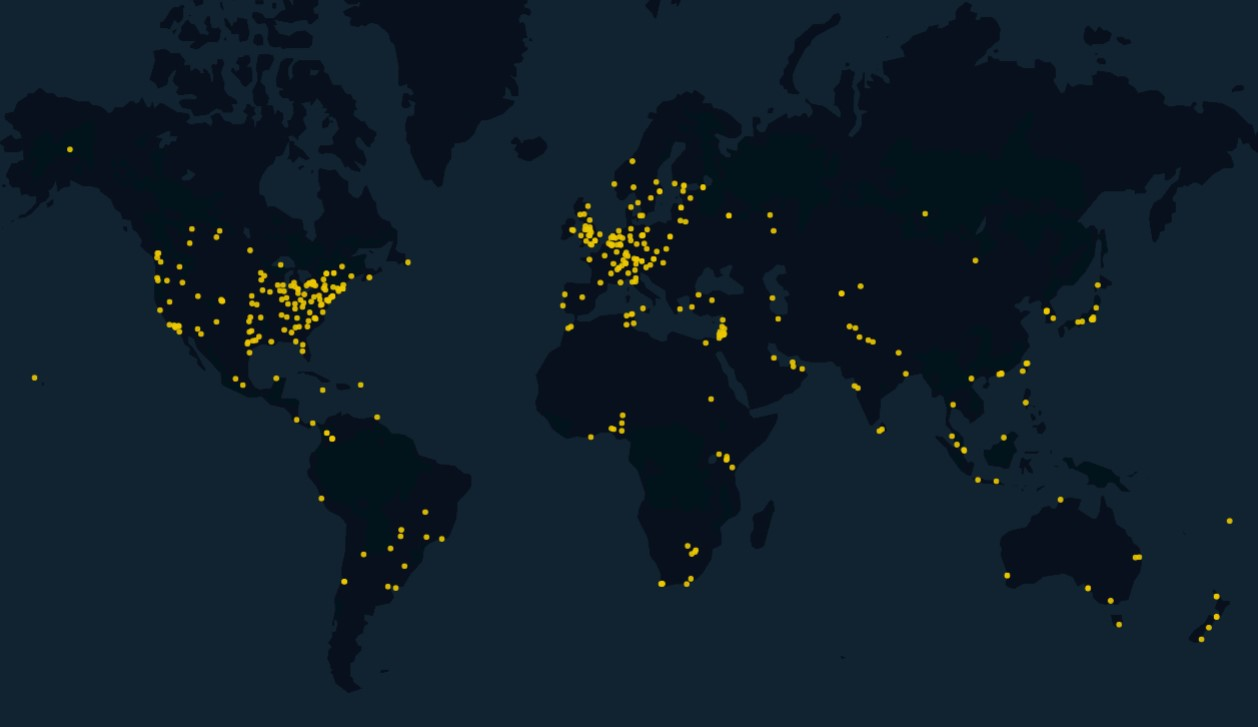
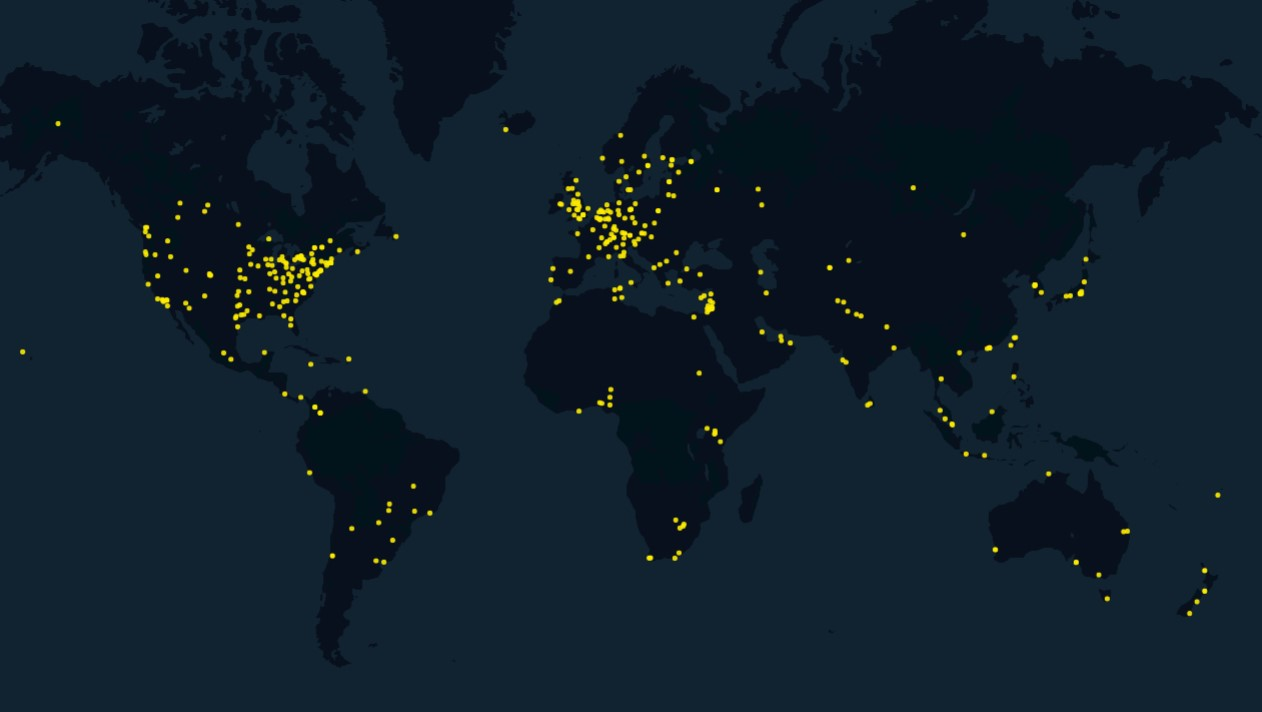
updates

diff --git a/pages/north_america/usa-west.md b/pages/north_america/usa-west.md
@@ -188,13 +188,13 @@ Professors:
 - **[John P. Wilson](https://spatial.usc.edu/?team=john-p-wilson)**: GIS, spatial analysis, environmental modeling, environment and human health, geodesign education;
 - **[Kenan Li](https://spatial.usc.edu/team-view/kenan-li/)**: spatial computation and modeling of community resilience/sustainability, data science and statistics in environmental health, geosimulation of human and environmental systems.
 
-### San Diego State Univeristy
+### San Diego State University
 
 San Diego, California, USA
 
 Unit: [Department of Geography](https://geography.sdsu.edu/)
 
-The graduate program of the geography department at SDSU offers MA, MS and PhD options. The MS degree program includes the focus of GIS, and the main research scope is applied GIS, cartography, data science, spatial analysis, and modeling. The PhD progam is a joint program between SDSU and UC Santa Barbara. It requires a strong background in geography-related fields for entrance.
+The SDSU is a member of the 23-campus California State University system. The graduate program of the geography department at SDSU offers MA, MS and PhD options. The MS degree program includes the focus of GIS, and the main research scope is applied GIS, cartography, data science, spatial analysis, and modeling. The PhD progam is a joint program between SDSU and UC Santa Barbara. It requires a strong background in geography-related fields for entrance.
 
 Professors:  
 

diff --git a/README.md b/README.md
@@ -76,6 +76,10 @@ USA
 
 [Hungary](https://gisphere.github.io/pages/europe/hungary.html)
 
+[Slovakia](https://gisphere.github.io/pages/europe/Slovakia.html)
+
+[Slovenia](https://gisphere.github.io/pages/europe/Slovenia.html)
+
 **Western Europe**
 
 [Belgium](https://gisphere.github.io/pages/europe/belgium.html)
@@ -106,11 +110,17 @@ USA
 
 [Finland](https://gisphere.github.io/pages/europe/finland.html)
 
+[Iceland(https://gisphere.github.io/pages/europe/iceland.html)
+
 [Norway](https://gisphere.github.io/pages/europe/norway.html)
 
 [Sweden](https://gisphere.github.io/pages/europe/sweden.html)
 
 **Eastern Europe**
+
+[Albania](https://gisphere.github.io/pages/europe/albania.html)
+
+[Bulgaria](https://gisphere.github.io/pages/europe/Bulgaria.html)
 
 [Estonia](https://gisphere.github.io/pages/europe/estonia.html)
 
@@ -120,7 +130,11 @@ USA
 
 [Lithuania](https://gisphere.github.io/pages/europe/lithuania.html)
 
+[North Macedonia](https://gisphere.github.io/pages/europe/Macedonia.html)
+
 [Poland](https://gisphere.github.io/pages/europe/Poland.html)
+
+[Romania](https://gisphere.github.io/pages/europe/romania.html)
 
 [Russia](https://gisphere.github.io/pages/europe/Russia.html)
 
@@ -167,6 +181,8 @@ China
 [Sri Lanka](https://gisphere.github.io/pages/asia/srilanka.html)
 
 **Middle East**
+
+[Cyprus](https://gisphere.github.io/pages/asia/cyprus.html)
 
 [Iran](https://gisphere.github.io/pages/asia/iran.html)
 

diff --git a/pages/asia/cyprus.md b/pages/asia/cyprus.md
@@ -1,0 +1,15 @@
+## Cyprus
+
+### Cyprus University of Technology
+
+Limassol, Cyprus
+
+The CUT has a MSc degree in [Geoinformatics and Geospatial Technology](https://www.cut.ac.cy/studies/masters/master-programmes/ceg-gr-cis/). It's a hybrid course and thesis track master's program. Students are taking 60 credits of classes and also completing a 30-credit thesis report. The typical duration of this program is 13 months. The instruction language is Greek. This university also grants a doctoral degree in [Civil and Geospatial Engineering](https://www.cut.ac.cy/studies/phd/phd-posts/ceg-pg/).
+
+### Eastern Mediterranean University
+
+Famagusta, (North) Cyprus
+
+Unit: [Department of Architecture](https://www.emu.edu.tr/en/academics/faculties/faculty-of-architecture/architecture/1133) and [Department of Mathematics](https://www.emu.edu.tr/en/academics/faculties/faculty-of-arts-sciences/department-of-mathematics/758)
+
+The Department of Architecture offers the Masters degree programs in urban design with both thesis and non-thesis options. The math department offers a non-thesis Masters degree in [Information Systems](https://www.emu.edu.tr/en/programs/information-systems-masters-program-without-thesis/939) with one of the optional concentrations being the GIS. These classes are delivered in English.

diff --git a/pages/europe/Bulgaria.md b/pages/europe/Bulgaria.md
@@ -1,0 +1,7 @@
+## Bulgaria
+
+### University of Sofia
+
+Sofia, Bulgaria
+
+The University of Sofia offers the [Masters in GIS and Cartography](https://www.uni-sofia.bg/index.php/bul/universitet_t/fakulteti/geologo_geografski_fakultet/specialnosti/magist_rski_programi/geologo_geografski_fakultet/4_4_nauki_za_zemyata/specialnost_geografiya/geografski_informacionni_sistemi_i_kartografiya) under its Faculty of Geology and Geography. The completion time is 2 or 3 semesters. For those with an undergraduate degree in geography, geology, historical geography, biogeography, geodesy, tourism, sustainability and other related majors, it takes 2 semesters to complete. For those with other undergraduate majors it takes 3 semesters. The university also has a [doctoral program in cartography](https://www.uni-sofia.bg/index.php/bul/obrazovanie/doktoranturi/akreditirani_doktorski_programi).

diff --git a/pages/europe/romania.md b/pages/europe/romania.md
@@ -1,0 +1,9 @@
+## Romania
+
+### University of Bucharest
+
+Bucharest, Romania
+
+Unit: [Faculty of Geography](http://geo.unibuc.ro/)
+
+The University of Bucharest offers several GIS-related master's degree programs in the Romanian language. They include the masters in applied geography and regional development, masters in geographic information systems, masters in geomorphology and cartography, masters in hazard management, and masters in rural-urban planning and management. These is a graduate certificate program in geomatics and surveying. The faculty also operates the [Nature and Suistainable Development Doctoral Program](https://scoaladoctorala.geo.unibuc.ro/home/). In addition, this university has the opportunity to do a [interdisciplinary doctoral degree](http://doctorat.unibuc.ro/scoala-interdisciplinara-de-studii-doctorale-a-universitatii-din-bucuresti/).

diff --git a/pages/europe/Macedonia.md b/pages/europe/Macedonia.md
@@ -1,0 +1,7 @@
+## North Macedonia
+
+### Saints Cyril and Methodius University
+
+Skopje, North Macedonia
+
+The Saints Cyril and Methodius University in Skopjeis the oldest and largest public university in North Macedonia. It is named after two Byzantine theologians Cyril and Methodius of the 9th century. The Faculty of Geography has a [master's program](chrome-extension://efaidnbmnnnibpcajpcglclefindmkaj/http://www.ukim.edu.mk/dokumenti_m/Studiski-programi-II_ciklus-2021.pdf) in cartography and geoinformatics (картографија и географски информациски системи). The university also has a [PhD degree program](http://www.ukim.edu.mk/mk_content.php?meni=165&glavno=8) in geography.

diff --git a/pages/europe/Slovenia.md b/pages/europe/Slovenia.md
@@ -1,0 +1,7 @@
+## Slovenia
+
+### University of Ljubljana
+
+Ljubljana, Slovenia
+
+The University of Ljubljana offers several geography-related [master's degrees](https://www.uni-lj.si/mma/klasifikacija_2_stopnja/2019112013165810/?m=1574252218), including geodesy and geoinformatics, environmental and physical geography, regional and urban-rural planning, political geography, and applied geoinformatics. It also offers a [PhD degree](https://www.uni-lj.si/mma/3_stopnja/2020070908044657/?m=1594274686) in geography. 

diff --git a/pages/europe/Slovakia.md b/pages/europe/Slovakia.md
@@ -1,0 +1,7 @@
+## Slovakia
+
+### Comenius University
+
+Bratislava, Slovakia
+
+The [Faculty of Geography and Geoinformatics](https://fyzgis.fns.uniba.sk/studium/pre_uchadzacov) at Comenius University (formerly Slovak University) offers undergraduate, masters, and doctoral courses. The masters courses are 2-year long with options in physical geography and geoinformatics. The doctoral courses are 4 or 5-year long with options in physical geography, geo-ecology, and geoinformatics.

diff --git a/pages/europe/albania.md b/pages/europe/albania.md
@@ -1,0 +1,7 @@
+## Albania
+
+### University of Tirana
+
+Tirana, Albania
+
+The University of Tirana has a [Professional Master's Degree in Applied GIS](https://www.fhf.edu.al/cikli-i-dyte-master-profesional/). The primary language of instruction at this university is Albanian. The duration is about 3 semesters. The university also grants PhD degrees in Geography.

diff --git a/pages/europe/iceland.md b/pages/europe/iceland.md
@@ -1,0 +1,7 @@
+## Iceland
+
+### University of Iceland
+
+Reykjavik, Iceland
+
+The Faculty of Life and Environmental Sciences at University of Iceland has [MS and PhD programs](https://ugla.hi.is/kennsluskra/index.php?tab=nam&kennsluar=2022&flaturlisti=0&namsstig=F#svid50) in geography, with elective course options in GIS.
